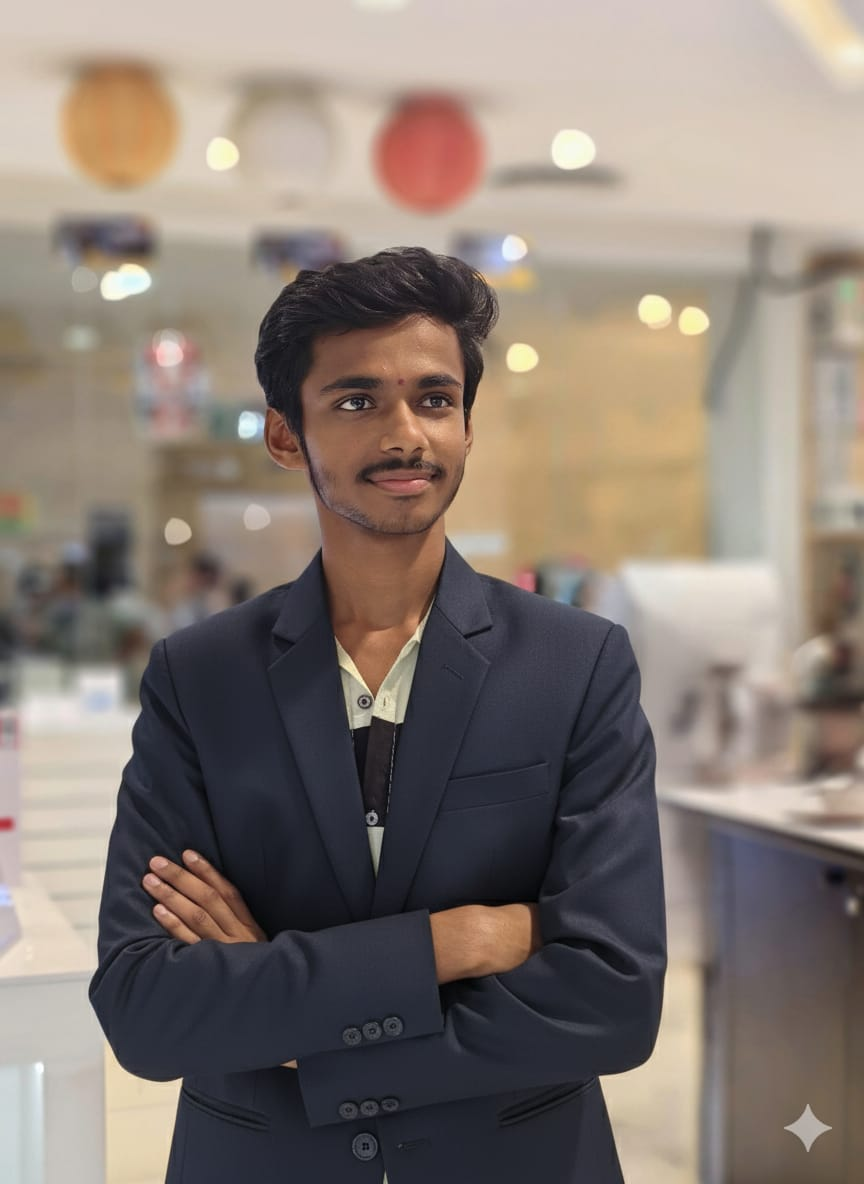
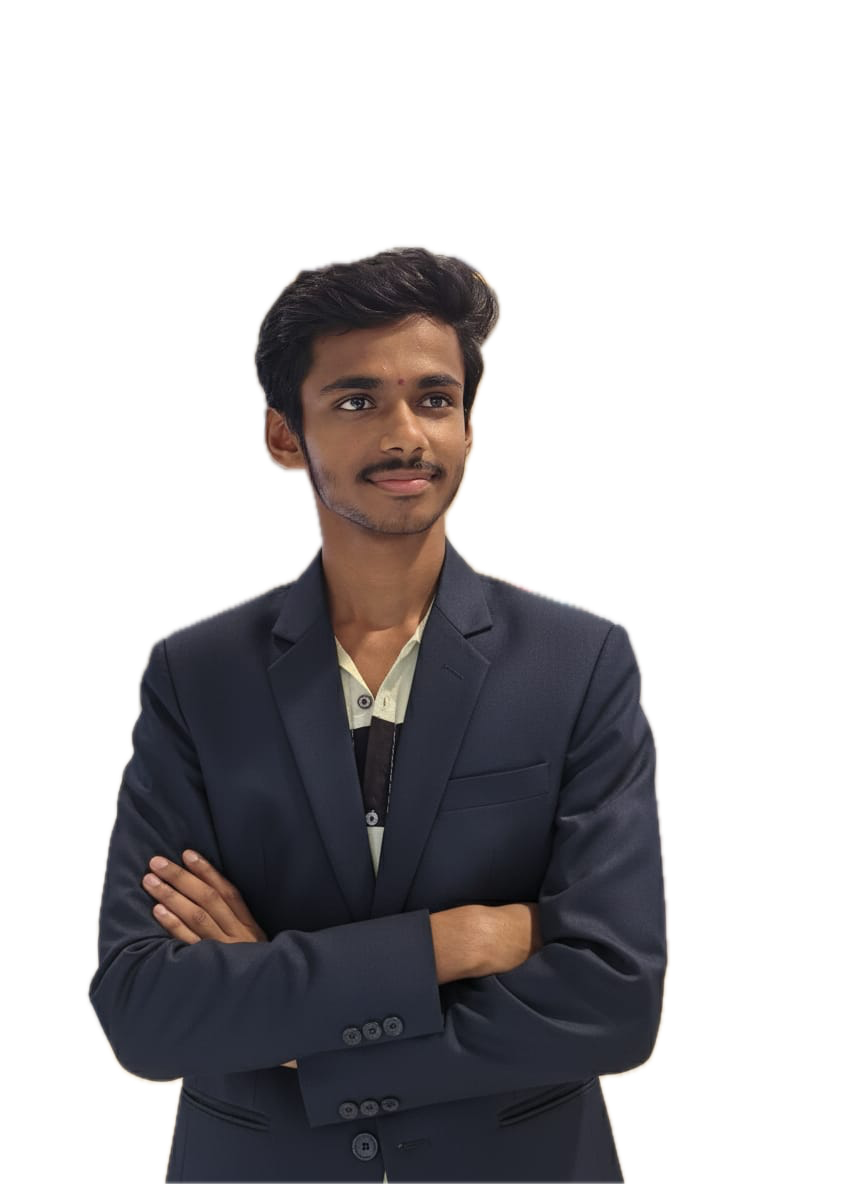
background removed profile

diff --git a/index.html b/index.html
@@ -112,7 +112,7 @@
                             <path d="M20 4H4c-1.1 0-1.99.9-1.99 2L2 18c0 1.1.9 2 2 2h16c1.1 0 2-.9 2-2V6c0-1.1-.9-2-2-2zm0 4l-8 5-8-5V6l8 5 8-5v2z"/>
                         </svg>
                     </a>
-                    <a href="https://wa.me/9740440425" class="social-link" data-platform="whatsapp" onclick="showPhoneNumber()">
+                    <a href="https://wa.me/+91 9740440425" class="social-link" data-platform="whatsapp">
                         <svg viewBox="0 0 24 24" fill="currentColor">
                             <path d="M17.472 14.382c-.297-.149-1.758-.867-2.03-.967-.273-.099-.471-.148-.67.15-.197.297-.767.966-.94 1.164-.173.199-.347.223-.644.075-.297-.15-1.255-.463-2.39-1.475-.883-.788-1.48-1.761-1.653-2.059-.173-.297-.018-.458.13-.606.134-.133.298-.347.446-.52.149-.174.198-.298.298-.497.099-.198.05-.371-.025-.52-.075-.149-.669-1.612-.916-2.207-.242-.579-.487-.5-.669-.51-.173-.008-.371-.01-.57-.01-.198 0-.52.074-.792.372-.272.297-1.04 1.016-1.04 2.479 0 1.462 1.065 2.875 1.213 3.074.149.198 2.096 3.2 5.077 4.487.709.306 1.262.489 1.694.625.712.227 1.36.195 1.871.118.571-.085 1.758-.719 2.006-1.413.248-.694.248-1.289.173-1.413-.074-.124-.272-.198-.57-.347m-5.421 7.403h-.004a9.87 9.87 0 01-5.031-1.378l-.361-.214-3.741.982.998-3.648-.235-.374a9.86 9.86 0 01-1.51-5.26c.001-5.45 4.436-9.884 9.888-9.884 2.64 0 5.122 1.03 6.988 2.898a9.825 9.825 0 012.893 6.994c-.003 5.45-4.437 9.884-9.885 9.884m8.413-18.297A11.815 11.815 0 0012.05 0C5.495 0 .16 5.335.157 11.892c0 2.096.547 4.142 1.588 5.945L.057 24l6.305-1.654a11.882 11.882 0 005.683 1.448h.005c6.554 0 11.89-5.335 11.893-11.893A11.821 11.821 0 0020.885 3.488"/>
                         </svg>
